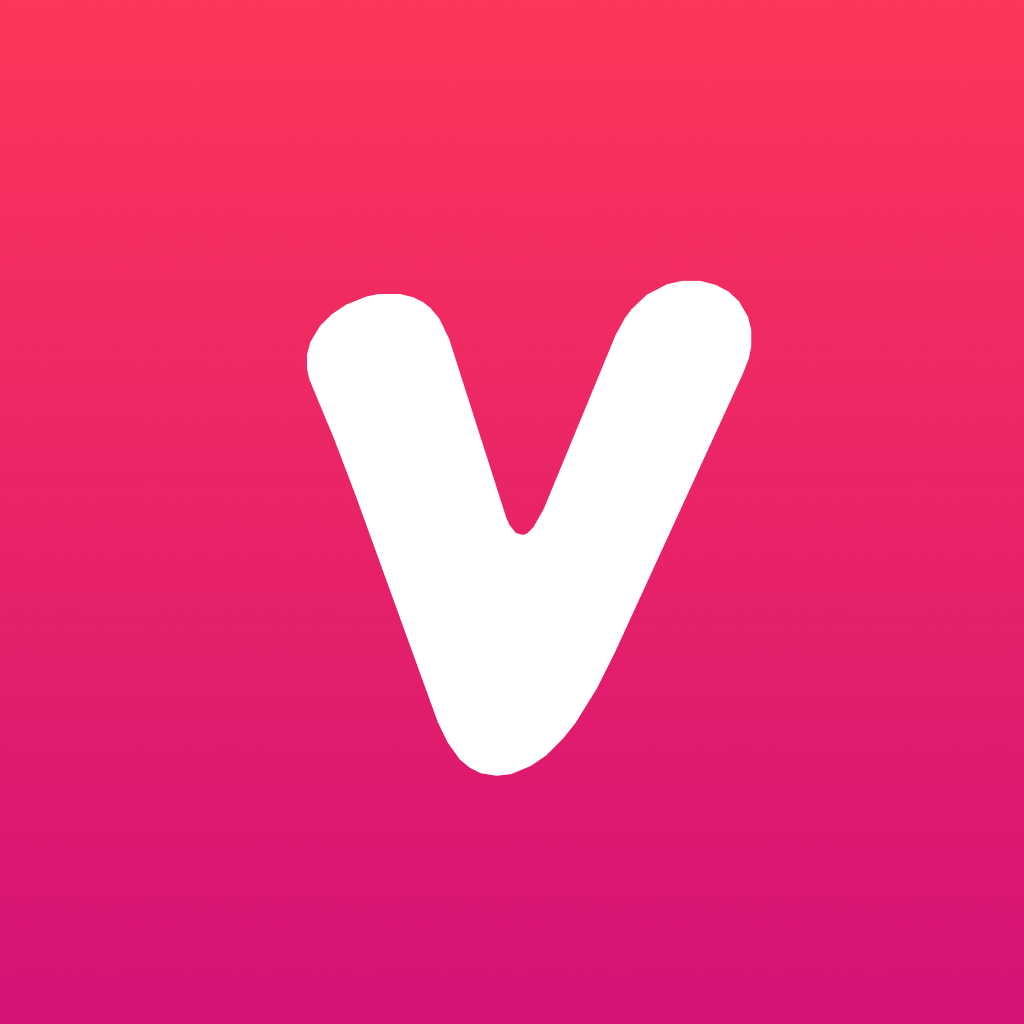
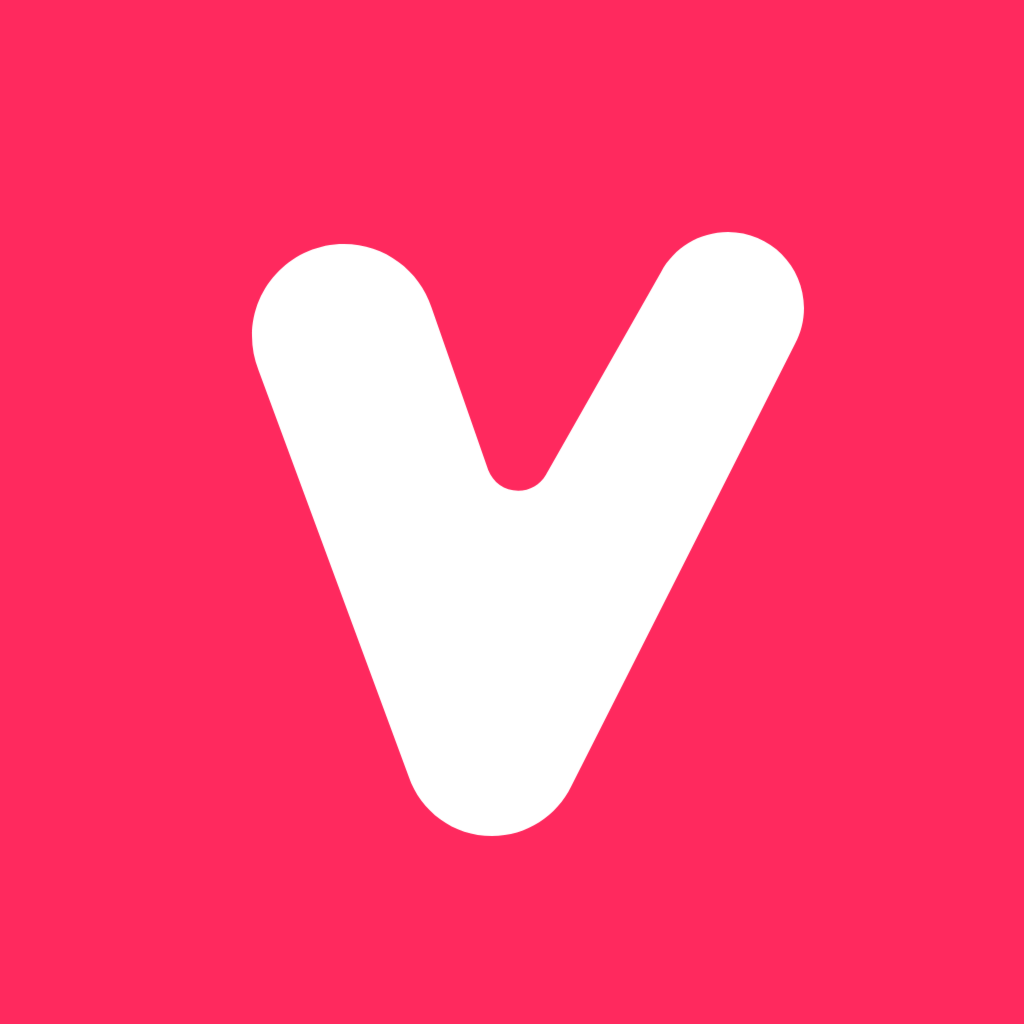
The new V mark and bot colours, a player preview in a server's premium settings, a round colour picker, refreshed pictures

diff --git a/website/dash/appearance.js b/website/dash/appearance.js
@@ -1,6 +1,7 @@
 import { DEFAULT_BACKGROUND_COLOR, isReadableCardAccent, resolveCardFade } from "../lib/generated/cardBackgrounds.js";
 import { formatHours, renderSignedOut, note } from "./shared.js";
 import { dirty, clean } from "./saveBar.js";
+import { buildPlayerPreview } from "./playerPreview.js";
 import { bodyFor, createDraft, isDirty, markSaved, revert } from "./appearanceDraft.js";
 
 /**
@@ -237,97 +238,13 @@ export async function renderCardStyle({
    */
   const paintPlayerPreview = () => {
     if (!playerHost) return;
-
-    const svg = (tag, attrs = {}) => {
-      const el = document.createElementNS("http://www.w3.org/2000/svg", tag);
-      for (const [k, v] of Object.entries(attrs)) el.setAttribute(k, v);
-      return el;
-    };
-    const text = (tag, className, content) => {
-      const el = document.createElement(tag);
-      el.className = className;
-      el.textContent = content;
-      return el;
-    };
-
-    // The new player at a glance: the cover leads and its light spreads behind it, the words stand
-    // beside it, and one strip along the bottom holds everything, with the seek bar as its top edge.
-    // From a container width of 35rem the queue becomes a rail; below it the strip has two rows.
-    const mock = document.createElement("div");
-    mock.className = state.activityBackground ? `player-preview live-${state.activityBackground}` : "player-preview";
-    // `--accent` tints the controls, `--bg` the backdrop's glow: both the chosen colour, or the bot's own.
-    const accent = state.activityAccent ?? DEFAULT_BACKGROUND_COLOR;
-    mock.style.setProperty("--accent", accent);
-    mock.style.setProperty("--bg", accent);
-    mock.setAttribute("role", "img");
-    mock.setAttribute("aria-label", "Preview of your player colours");
-
-    const div = (className, ...children) => {
-      const el = document.createElement("div");
-      el.className = className;
-      el.append(...children);
-      return el;
-    };
-    const icon = (d, className = "ctl") => {
-      const el = svg("svg", { class: className, viewBox: "0 0 24 24", "aria-hidden": "true" });
-      el.append(svg("path", { d }));
-      return el;
-    };
-    const cover = (className) => {
-      const el = div(className);
-      const mark = svg("svg", { viewBox: "0 0 1254 1254", "aria-hidden": "true" });
-      mark.append(svg("path", { d: "M 877 349 L 858 344 L 835 344 L 817 348 L 792 361 L 773 379 L 765 390 L 754 410 L 666 623 L 653 646 L 646 653 L 641 655 L 632 653 L 624 643 L 620 634 L 550 415 L 538 390 L 527 377 L 518 370 L 506 364 L 490 360 L 464 360 L 449 363 L 424 373 L 406 385 L 392 399 L 380 419 L 376 434 L 376 452 L 379 465 L 409 537 L 436 608 L 536 884 L 548 909 L 563 930 L 575 940 L 589 947 L 608 950 L 626 948 L 650 938 L 669 925 L 690 904 L 705 885 L 731 843 L 753 799 L 910 457 L 917 439 L 920 424 L 920 404 L 916 388 L 905 369 L 892 357 Z" }));
-      el.append(mark);
-      return el;
-    };
-    const fill = document.createElement("span");
-    const seek = div("pp-seek", fill);
-
-    // The strip's glyphs, drawn as the Activity draws them: shuffle and repeat as lines, the rest filled.
-    const lineIcon = (stroke, filled) => {
-      const el = svg("svg", { class: "ctl ctl-line", viewBox: "0 0 24 24", "aria-hidden": "true" });
-      el.append(svg("path", { d: stroke }));
-      if (filled) el.append(svg("path", { d: filled, class: "ctl-fill" }));
-      return el;
-    };
-    const play = div("play", icon("M8 5v14l11-7z", ""));
-    const controls = div(
-      "controls",
-      lineIcon("M3 6h3.5L16 18h4.5M17 15l3.5 3-3.5 3M3 18h3.5l2.5-3M13 9l3-3h4.5M17 3l3.5 3-3.5 3"),
-      icon("M6 6h2v12H6zm3.5 6 8.5 6V6z"),
-      play,
-      icon("M16 6h2v12h-2zM6 18l8.5-6L6 6z"),
-      lineIcon("M4 11a8 8 0 0 1 8-8h5M20 13a8 8 0 0 1-8 8H7", "M17 .5 21 3 17 5.5ZM10 18.5 6 21 10 23.5Z")
+    playerHost.replaceChildren(
+      buildPlayerPreview({
+        accent: state.activityAccent ?? DEFAULT_BACKGROUND_COLOR,
+        background: state.activityBackground,
+        label: "Preview of your player colours",
+      })
     );
-
-    const rail = div(
-      "pp-queue",
-      text("p", "pp-queue-title", "Up next"),
-      ...["Next in your queue", "Another song", "One more"].map((title) =>
-        div("pp-row", div("pp-thumb"), div("pp-row-words", text("span", "pp-row-title", title), text("span", "pp-row-artist", "Someone")))
-      )
-    );
-
-    const stage = div(
-      "pp-stage",
-      div(
-        "pp-sleeve",
-        cover("pp-cover"),
-        div("pp-words", text("p", "track", "Whatever you queued"), text("p", "artist", "Playing in your voice channel"))
-      ),
-      rail
-    );
-
-    const strip = div(
-      "pp-strip",
-      seek,
-      div("pp-timeline", text("span", "pp-time pp-elapsed", "1:47"), div("pp-seek-flow"), text("span", "pp-time pp-length", "4:18")),
-      controls,
-      div("pp-volume", icon("M4 9v6h4l5 4V5L8 9H4z"), div("pp-volume-track", document.createElement("span")))
-    );
-
-    mock.append(div("pp-light"), stage, strip);
-    playerHost.replaceChildren(mock);
   };
 
   /**

diff --git a/website/dash/playerPreview.js b/website/dash/playerPreview.js
@@ -1,0 +1,102 @@
+/**
+ * A mock of the player `/watch` opens, retinted by a colour and a backdrop. Shared by the personal settings and the
+ * server's premium settings, so the two always draw the same thing.
+ *
+ * The landing page's hand-built `.player` is the thing reused: it is drawn from the same tokens as the Activity, and
+ * `player.css` derives every surface from one accent through `color-mix()`, so a static mock is faithful in a way the rank
+ * card's canvas preview cannot be. The backdrop is the same `.backdrop-*` class the tiles use. Roughly the real thing: the
+ * real player has artwork, a queue and a transport nobody can predict from here.
+ * @param {{accent: string, background?: ?string, label: string}} options
+ * @returns {HTMLElement}
+ */
+export function buildPlayerPreview({ accent, background = null, label }) {
+  const svg = (tag, attrs = {}) => {
+    const el = document.createElementNS("http://www.w3.org/2000/svg", tag);
+    for (const [k, v] of Object.entries(attrs)) el.setAttribute(k, v);
+    return el;
+  };
+  const text = (tag, className, content) => {
+    const el = document.createElement(tag);
+    el.className = className;
+    el.textContent = content;
+    return el;
+  };
+
+  // The new player at a glance: the cover leads and its light spreads behind it, the words stand
+  // beside it, and one strip along the bottom holds everything, with the seek bar as its top edge.
+  // From a container width of 35rem the queue becomes a rail; below it the strip has two rows.
+  const mock = document.createElement("div");
+  mock.className = background ? `player-preview live-${background}` : "player-preview";
+  // `--accent` tints the controls, `--bg` the backdrop's glow: both the colour given.
+  mock.style.setProperty("--accent", accent);
+  mock.style.setProperty("--bg", accent);
+  mock.setAttribute("role", "img");
+  mock.setAttribute("aria-label", label);
+
+  const div = (className, ...children) => {
+    const el = document.createElement("div");
+    el.className = className;
+    el.append(...children);
+    return el;
+  };
+  const icon = (d, className = "ctl") => {
+    const el = svg("svg", { class: className, viewBox: "0 0 24 24", "aria-hidden": "true" });
+    el.append(svg("path", { d }));
+    return el;
+  };
+  const cover = (className) => {
+    const el = div(className);
+    const mark = svg("svg", { viewBox: "0 0 1254 1254", "aria-hidden": "true" });
+    mark.append(svg("path", { d: "M 827 325 C 868.97 325 903 359.03 903 401 C 903 413.94 899.76 426.12 894.06 436.78 L 670.14 879.51 C 655.86 908.81 625.79 929 591 929 C 552.33 929 519.49 904.06 507.68 869.39 L 357.44 462.88 C 353.28 452.39 351 440.96 351 429 C 351 378.19 392.19 337 443 337 C 483.8 337 518.39 363.56 530.44 400.33 L 587.22 563.06 C 591.77 575.19 603.47 583.81 617.19 583.81 C 628.96 583.81 639.24 577.46 644.79 568 L 760.11 364.9 C 772.96 341.14 798.09 325 827 325 Z" }));
+    el.append(mark);
+    return el;
+  };
+  const fill = document.createElement("span");
+  const seek = div("pp-seek", fill);
+
+  // The strip's glyphs, drawn as the Activity draws them: shuffle and repeat as lines, the rest filled.
+  const lineIcon = (stroke, filled) => {
+    const el = svg("svg", { class: "ctl ctl-line", viewBox: "0 0 24 24", "aria-hidden": "true" });
+    el.append(svg("path", { d: stroke }));
+    if (filled) el.append(svg("path", { d: filled, class: "ctl-fill" }));
+    return el;
+  };
+  const play = div("play", icon("M8 5v14l11-7z", ""));
+  const controls = div(
+    "controls",
+    lineIcon("M3 6h3.5L16 18h4.5M17 15l3.5 3-3.5 3M3 18h3.5l2.5-3M13 9l3-3h4.5M17 3l3.5 3-3.5 3"),
+    icon("M6 6h2v12H6zm3.5 6 8.5 6V6z"),
+    play,
+    icon("M16 6h2v12h-2zM6 18l8.5-6L6 6z"),
+    lineIcon("M4 11a8 8 0 0 1 8-8h5M20 13a8 8 0 0 1-8 8H7", "M17 .5 21 3 17 5.5ZM10 18.5 6 21 10 23.5Z")
+  );
+
+  const rail = div(
+    "pp-queue",
+    text("p", "pp-queue-title", "Up next"),
+    ...["Next in your queue", "Another song", "One more"].map((title) =>
+      div("pp-row", div("pp-thumb"), div("pp-row-words", text("span", "pp-row-title", title), text("span", "pp-row-artist", "Someone")))
+    )
+  );
+
+  const stage = div(
+    "pp-stage",
+    div(
+      "pp-sleeve",
+      cover("pp-cover"),
+      div("pp-words", text("p", "track", "Whatever you queued"), text("p", "artist", "Playing in your voice channel"))
+    ),
+    rail
+  );
+
+  const strip = div(
+    "pp-strip",
+    seek,
+    div("pp-timeline", text("span", "pp-time pp-elapsed", "1:47"), div("pp-seek-flow"), text("span", "pp-time pp-length", "4:18")),
+    controls,
+    div("pp-volume", icon("M4 9v6h4l5 4V5L8 9H4z"), div("pp-volume-track", document.createElement("span")))
+  );
+
+  mock.append(div("pp-light"), stage, strip);
+  return mock;
+}

diff --git a/website/dash/serverSettings.js b/website/dash/serverSettings.js
@@ -2,6 +2,7 @@ import { renderSignedOut } from "./shared.js";
 import { dirty, clean } from "./saveBar.js";
 import { botKey, serverKey, effectiveValue, isChange, payloadFor, pick } from "./settingsDraft.js";
 import { createControls, el, row } from "./controls.js";
+import { buildPlayerPreview } from "./playerPreview.js";
 import { CARD_BACKGROUND_STYLES, DEFAULT_BACKGROUND_COLOR } from "../lib/generated/cardBackgrounds.js";
 
 /**
@@ -84,6 +85,10 @@ export async function renderServerSettings(host, { guildId, nav, status, onName 
   function retintBackdrops() {
     const tint = value(serverKey("activityAccent")) ?? DEFAULT_BACKGROUND_COLOR;
     for (const tile of host.querySelectorAll(".backdrops .backdrop")) tile.style.setProperty("--bg", tint);
+    for (const mock of host.querySelectorAll(".player-preview")) {
+      mock.style.setProperty("--accent", tint);
+      mock.style.setProperty("--bg", tint);
+    }
   }
 
   /**
@@ -165,7 +170,16 @@ export async function renderServerSettings(host, { guildId, nav, status, onName 
       const theme = saved.premium?.activityTheme;
       if (theme?.forSale) {
         const entitled = theme.entitled;
+        const previewHost = el("div", { className: "player-preview-host" });
+        previewHost.append(
+          buildPlayerPreview({
+            accent: v("activityAccent") ?? DEFAULT_BACKGROUND_COLOR,
+            background: v("activityBackground"),
+            label: "Preview of this server's player colours",
+          })
+        );
         rows.push(
+          row("Preview", "Roughly how the player looks here for a listener without a colour of their own.", previewHost, true),
           row(
             "Activity theme",
             entitled

diff --git a/website/index.html b/website/index.html
@@ -61,7 +61,7 @@
         <a class="nav-brand" href="/" aria-current="page">
           <svg class="mark" viewBox="338 337 620 620" aria-hidden="true">
             <path
-              d="M 877 349 L 858 344 L 835 344 L 817 348 L 792 361 L 773 379 L 765 390 L 754 410 L 666 623 L 653 646 L 646 653 L 641 655 L 632 653 L 624 643 L 620 634 L 550 415 L 538 390 L 527 377 L 518 370 L 506 364 L 490 360 L 464 360 L 449 363 L 424 373 L 406 385 L 392 399 L 380 419 L 376 434 L 376 452 L 379 465 L 409 537 L 436 608 L 536 884 L 548 909 L 563 930 L 575 940 L 589 947 L 608 950 L 626 948 L 650 938 L 669 925 L 690 904 L 705 885 L 731 843 L 753 799 L 910 457 L 917 439 L 920 424 L 920 404 L 916 388 L 905 369 L 892 357 Z"
+              d="M 827 325 C 868.97 325 903 359.03 903 401 C 903 413.94 899.76 426.12 894.06 436.78 L 670.14 879.51 C 655.86 908.81 625.79 929 591 929 C 552.33 929 519.49 904.06 507.68 869.39 L 357.44 462.88 C 353.28 452.39 351 440.96 351 429 C 351 378.19 392.19 337 443 337 C 483.8 337 518.39 363.56 530.44 400.33 L 587.22 563.06 C 591.77 575.19 603.47 583.81 617.19 583.81 C 628.96 583.81 639.24 577.46 644.79 568 L 760.11 364.9 C 772.96 341.14 798.09 325 827 325 Z"
             />
           </svg>
           Vibe

diff --git a/website/commands.html b/website/commands.html
@@ -42,7 +42,7 @@
         <a class="nav-brand" href="/">
           <svg class="mark" viewBox="338 337 620 620" aria-hidden="true">
             <path
-              d="M 877 349 L 858 344 L 835 344 L 817 348 L 792 361 L 773 379 L 765 390 L 754 410 L 666 623 L 653 646 L 646 653 L 641 655 L 632 653 L 624 643 L 620 634 L 550 415 L 538 390 L 527 377 L 518 370 L 506 364 L 490 360 L 464 360 L 449 363 L 424 373 L 406 385 L 392 399 L 380 419 L 376 434 L 376 452 L 379 465 L 409 537 L 436 608 L 536 884 L 548 909 L 563 930 L 575 940 L 589 947 L 608 950 L 626 948 L 650 938 L 669 925 L 690 904 L 705 885 L 731 843 L 753 799 L 910 457 L 917 439 L 920 424 L 920 404 L 916 388 L 905 369 L 892 357 Z"
+              d="M 827 325 C 868.97 325 903 359.03 903 401 C 903 413.94 899.76 426.12 894.06 436.78 L 670.14 879.51 C 655.86 908.81 625.79 929 591 929 C 552.33 929 519.49 904.06 507.68 869.39 L 357.44 462.88 C 353.28 452.39 351 440.96 351 429 C 351 378.19 392.19 337 443 337 C 483.8 337 518.39 363.56 530.44 400.33 L 587.22 563.06 C 591.77 575.19 603.47 583.81 617.19 583.81 C 628.96 583.81 639.24 577.46 644.79 568 L 760.11 364.9 C 772.96 341.14 798.09 325 827 325 Z"
             />
           </svg>
           Vibe

diff --git a/website/dashboard.html b/website/dashboard.html
@@ -22,7 +22,7 @@
         <a class="nav-brand" href="/">
           <svg class="mark" viewBox="338 337 620 620" aria-hidden="true">
             <path
-              d="M 877 349 L 858 344 L 835 344 L 817 348 L 792 361 L 773 379 L 765 390 L 754 410 L 666 623 L 653 646 L 646 653 L 641 655 L 632 653 L 624 643 L 620 634 L 550 415 L 538 390 L 527 377 L 518 370 L 506 364 L 490 360 L 464 360 L 449 363 L 424 373 L 406 385 L 392 399 L 380 419 L 376 434 L 376 452 L 379 465 L 409 537 L 436 608 L 536 884 L 548 909 L 563 930 L 575 940 L 589 947 L 608 950 L 626 948 L 650 938 L 669 925 L 690 904 L 705 885 L 731 843 L 753 799 L 910 457 L 917 439 L 920 424 L 920 404 L 916 388 L 905 369 L 892 357 Z"
+              d="M 827 325 C 868.97 325 903 359.03 903 401 C 903 413.94 899.76 426.12 894.06 436.78 L 670.14 879.51 C 655.86 908.81 625.79 929 591 929 C 552.33 929 519.49 904.06 507.68 869.39 L 357.44 462.88 C 353.28 452.39 351 440.96 351 429 C 351 378.19 392.19 337 443 337 C 483.8 337 518.39 363.56 530.44 400.33 L 587.22 563.06 C 591.77 575.19 603.47 583.81 617.19 583.81 C 628.96 583.81 639.24 577.46 644.79 568 L 760.11 364.9 C 772.96 341.14 798.09 325 827 325 Z"
             />
           </svg>
           Vibe

diff --git a/website/passport.html b/website/passport.html
@@ -34,7 +34,7 @@
         <a class="nav-brand" href="/">
           <svg class="mark" viewBox="338 337 620 620" aria-hidden="true">
             <path
-              d="M 877 349 L 858 344 L 835 344 L 817 348 L 792 361 L 773 379 L 765 390 L 754 410 L 666 623 L 653 646 L 646 653 L 641 655 L 632 653 L 624 643 L 620 634 L 550 415 L 538 390 L 527 377 L 518 370 L 506 364 L 490 360 L 464 360 L 449 363 L 424 373 L 406 385 L 392 399 L 380 419 L 376 434 L 376 452 L 379 465 L 409 537 L 436 608 L 536 884 L 548 909 L 563 930 L 575 940 L 589 947 L 608 950 L 626 948 L 650 938 L 669 925 L 690 904 L 705 885 L 731 843 L 753 799 L 910 457 L 917 439 L 920 424 L 920 404 L 916 388 L 905 369 L 892 357 Z"
+              d="M 827 325 C 868.97 325 903 359.03 903 401 C 903 413.94 899.76 426.12 894.06 436.78 L 670.14 879.51 C 655.86 908.81 625.79 929 591 929 C 552.33 929 519.49 904.06 507.68 869.39 L 357.44 462.88 C 353.28 452.39 351 440.96 351 429 C 351 378.19 392.19 337 443 337 C 483.8 337 518.39 363.56 530.44 400.33 L 587.22 563.06 C 591.77 575.19 603.47 583.81 617.19 583.81 C 628.96 583.81 639.24 577.46 644.79 568 L 760.11 364.9 C 772.96 341.14 798.09 325 827 325 Z"
             />
           </svg>
           Vibe

diff --git a/website/privacy.html b/website/privacy.html
@@ -33,7 +33,7 @@
         <a class="nav-brand" href="/">
           <svg class="mark" viewBox="338 337 620 620" aria-hidden="true">
             <path
-              d="M 877 349 L 858 344 L 835 344 L 817 348 L 792 361 L 773 379 L 765 390 L 754 410 L 666 623 L 653 646 L 646 653 L 641 655 L 632 653 L 624 643 L 620 634 L 550 415 L 538 390 L 527 377 L 518 370 L 506 364 L 490 360 L 464 360 L 449 363 L 424 373 L 406 385 L 392 399 L 380 419 L 376 434 L 376 452 L 379 465 L 409 537 L 436 608 L 536 884 L 548 909 L 563 930 L 575 940 L 589 947 L 608 950 L 626 948 L 650 938 L 669 925 L 690 904 L 705 885 L 731 843 L 753 799 L 910 457 L 917 439 L 920 424 L 920 404 L 916 388 L 905 369 L 892 357 Z"
+              d="M 827 325 C 868.97 325 903 359.03 903 401 C 903 413.94 899.76 426.12 894.06 436.78 L 670.14 879.51 C 655.86 908.81 625.79 929 591 929 C 552.33 929 519.49 904.06 507.68 869.39 L 357.44 462.88 C 353.28 452.39 351 440.96 351 429 C 351 378.19 392.19 337 443 337 C 483.8 337 518.39 363.56 530.44 400.33 L 587.22 563.06 C 591.77 575.19 603.47 583.81 617.19 583.81 C 628.96 583.81 639.24 577.46 644.79 568 L 760.11 364.9 C 772.96 341.14 798.09 325 827 325 Z"
             />
           </svg>
           Vibe

diff --git a/website/server.html b/website/server.html
@@ -22,7 +22,7 @@
         <a class="nav-brand" href="/">
           <svg class="mark" viewBox="338 337 620 620" aria-hidden="true">
             <path
-              d="M 877 349 L 858 344 L 835 344 L 817 348 L 792 361 L 773 379 L 765 390 L 754 410 L 666 623 L 653 646 L 646 653 L 641 655 L 632 653 L 624 643 L 620 634 L 550 415 L 538 390 L 527 377 L 518 370 L 506 364 L 490 360 L 464 360 L 449 363 L 424 373 L 406 385 L 392 399 L 380 419 L 376 434 L 376 452 L 379 465 L 409 537 L 436 608 L 536 884 L 548 909 L 563 930 L 575 940 L 589 947 L 608 950 L 626 948 L 650 938 L 669 925 L 690 904 L 705 885 L 731 843 L 753 799 L 910 457 L 917 439 L 920 424 L 920 404 L 916 388 L 905 369 L 892 357 Z"
+              d="M 827 325 C 868.97 325 903 359.03 903 401 C 903 413.94 899.76 426.12 894.06 436.78 L 670.14 879.51 C 655.86 908.81 625.79 929 591 929 C 552.33 929 519.49 904.06 507.68 869.39 L 357.44 462.88 C 353.28 452.39 351 440.96 351 429 C 351 378.19 392.19 337 443 337 C 483.8 337 518.39 363.56 530.44 400.33 L 587.22 563.06 C 591.77 575.19 603.47 583.81 617.19 583.81 C 628.96 583.81 639.24 577.46 644.79 568 L 760.11 364.9 C 772.96 341.14 798.09 325 827 325 Z"
             />
           </svg>
           Vibe

diff --git a/website/servers.html b/website/servers.html
@@ -21,7 +21,7 @@
         <a class="nav-brand" href="/">
           <svg class="mark" viewBox="338 337 620 620" aria-hidden="true">
             <path
-              d="M 877 349 L 858 344 L 835 344 L 817 348 L 792 361 L 773 379 L 765 390 L 754 410 L 666 623 L 653 646 L 646 653 L 641 655 L 632 653 L 624 643 L 620 634 L 550 415 L 538 390 L 527 377 L 518 370 L 506 364 L 490 360 L 464 360 L 449 363 L 424 373 L 406 385 L 392 399 L 380 419 L 376 434 L 376 452 L 379 465 L 409 537 L 436 608 L 536 884 L 548 909 L 563 930 L 575 940 L 589 947 L 608 950 L 626 948 L 650 938 L 669 925 L 690 904 L 705 885 L 731 843 L 753 799 L 910 457 L 917 439 L 920 424 L 920 404 L 916 388 L 905 369 L 892 357 Z"
+              d="M 827 325 C 868.97 325 903 359.03 903 401 C 903 413.94 899.76 426.12 894.06 436.78 L 670.14 879.51 C 655.86 908.81 625.79 929 591 929 C 552.33 929 519.49 904.06 507.68 869.39 L 357.44 462.88 C 353.28 452.39 351 440.96 351 429 C 351 378.19 392.19 337 443 337 C 483.8 337 518.39 363.56 530.44 400.33 L 587.22 563.06 C 591.77 575.19 603.47 583.81 617.19 583.81 C 628.96 583.81 639.24 577.46 644.79 568 L 760.11 364.9 C 772.96 341.14 798.09 325 827 325 Z"
             />
           </svg>
           Vibe

diff --git a/website/terms.html b/website/terms.html
@@ -30,7 +30,7 @@
         <a class="nav-brand" href="/">
           <svg class="mark" viewBox="338 337 620 620" aria-hidden="true">
             <path
-              d="M 877 349 L 858 344 L 835 344 L 817 348 L 792 361 L 773 379 L 765 390 L 754 410 L 666 623 L 653 646 L 646 653 L 641 655 L 632 653 L 624 643 L 620 634 L 550 415 L 538 390 L 527 377 L 518 370 L 506 364 L 490 360 L 464 360 L 449 363 L 424 373 L 406 385 L 392 399 L 380 419 L 376 434 L 376 452 L 379 465 L 409 537 L 436 608 L 536 884 L 548 909 L 563 930 L 575 940 L 589 947 L 608 950 L 626 948 L 650 938 L 669 925 L 690 904 L 705 885 L 731 843 L 753 799 L 910 457 L 917 439 L 920 424 L 920 404 L 916 388 L 905 369 L 892 357 Z"
+              d="M 827 325 C 868.97 325 903 359.03 903 401 C 903 413.94 899.76 426.12 894.06 436.78 L 670.14 879.51 C 655.86 908.81 625.79 929 591 929 C 552.33 929 519.49 904.06 507.68 869.39 L 357.44 462.88 C 353.28 452.39 351 440.96 351 429 C 351 378.19 392.19 337 443 337 C 483.8 337 518.39 363.56 530.44 400.33 L 587.22 563.06 C 591.77 575.19 603.47 583.81 617.19 583.81 C 628.96 583.81 639.24 577.46 644.79 568 L 760.11 364.9 C 772.96 341.14 798.09 325 827 325 Z"
             />
           </svg>
           Vibe

diff --git a/website/css/appearance.css b/website/css/appearance.css
@@ -280,6 +280,12 @@
   max-width: 47.5rem;
   margin-bottom: var(--s-3);
 }
+/* In a settings row the control is a flex item, and a size container has no width of its own there: it has to be asked for. */
+.setting-control > .player-preview-host {
+  flex: 1 1 auto;
+  width: 100%;
+  margin-bottom: 0;
+}
 .player-preview {
   --accent-soft: color-mix(in srgb, var(--accent) 16%, var(--surface));
   --accent-text: color-mix(in srgb, var(--accent) 80%, var(--ink));
